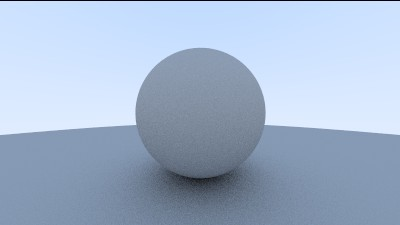
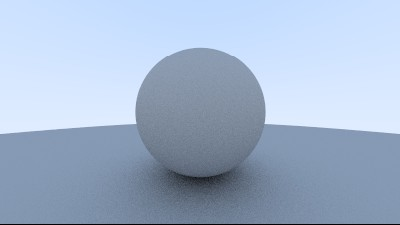
Basic concurrency added, which is slower than single threaded....

diff --git a/cmd/raytracer/main.go b/cmd/raytracer/main.go
@@ -3,7 +3,9 @@ package main
 import (
 	"encoding/json"
 	"image"
+	"image/draw"
 	"image/jpeg"
+	"log"
 	"math"
 	"math/rand"
 	"os"
@@ -12,6 +14,8 @@ import (
 	"raytracer/internal/ray"
 	"raytracer/internal/scene"
 	"raytracer/internal/vector"
+	"runtime/pprof"
+	"sync"
 	"time"
 
 	_ "image/jpeg" // Needed for JPEG decoder
@@ -19,8 +23,16 @@ import (
 
 var loadedScene scene.Scene
 var nPixelSamples = 100
-var maxDepth = 20
+var maxDepth = 50
 var infinity = math.Inf(1)
+
+// Number of threads to split the work up
+const nThreads = 4
+
+type imagePart struct {
+	index, height int
+	image         *image.RGBA
+}
 
 func main() {
 	// Load in a scene file
@@ -54,40 +66,83 @@ func main() {
 	var vertical = vector.Vector{0, viewportHeight, 0}
 	var lowerLeftCorner = origin.Sub(horizontal.Scale(0.5)).Sub(vertical.Scale(0.5)).Sub(vector.Vector{0, 0, focalLength})
 
-	image := image.NewRGBA(image.Rect(0, 0, imageWidth, imageHeight))
+	const rowsPerThread = imageHeight / nThreads
+	const rest = imageHeight - (nThreads * rowsPerThread)
 
-	// Cast rays for each of the image pixels
-	for y := imageHeight - 1; y >= 0; y-- {
-		for x := 0; x < imageWidth; x++ {
-			// Define a new color for this pixel, which we will average later
-			var pixelColor color.RGB = color.New(0, 0, 0)
+	cpuProfile, err := os.Create("profile.pprof")
+	if err != nil {
+		log.Fatal(err)
+	}
+	pprof.StartCPUProfile(cpuProfile)
+	defer pprof.StopCPUProfile()
 
-			// Anti-aliasing
-			for i := 0; i < nPixelSamples; i++ {
-				var u float64 = (float64(x) + rand.Float64()) / (imageWidth + 1)
-				var v float64 = (float64(y) + rand.Float64()) / float64(imageHeight+1)
-				r := ray.New(origin, lowerLeftCorner.Add(horizontal.Scale(u)).Add(vertical.Scale(v)).Sub(origin))
-				pixelColor = pixelColor.Add(colorRay(r, maxDepth))
+	var wg sync.WaitGroup
+	imagePartChan := make(chan imagePart, nThreads)
+	for thread := 0; thread < nThreads; thread++ {
+		// If this is the last thread, it gets the remaining rows from incomplete division
+		startY := thread * rowsPerThread
+		endY := (thread + 1) * rowsPerThread
+		if thread == nThreads-1 {
+			endY += rest
+		}
+
+		// Join waitgroup
+		wg.Add(1)
+
+		go func(thread, startY, endY int, imagePartChan chan imagePart) {
+			defer wg.Done()
+			// Create slice for image part
+			img := image.NewRGBA(image.Rect(0, 0, imageWidth, (endY - startY)))
+
+			// Cast rays for each of the image pixels
+			for y := startY; y <= endY; y++ {
+				for x := 0; x < imageWidth; x++ {
+					// Define a new color for this pixel, which we will average later
+					var pixelColor color.RGB = color.New(0, 0, 0)
+
+					// Anti-aliasing
+					for i := 0; i < nPixelSamples; i++ {
+						var u float64 = (float64(x) + rand.Float64()) / (imageWidth + 1)
+						var v float64 = (float64(y) + rand.Float64()) / float64(imageHeight+1)
+						r := ray.New(origin, lowerLeftCorner.Add(horizontal.Scale(u)).Add(vertical.Scale(v)).Sub(origin))
+						pixelColor = pixelColor.Add(colorRay(r, maxDepth))
+					}
+
+					// Set pixel in slice
+					img.Set(x, endY-y, pixelColor.Average(nPixelSamples).RGBA())
+				}
 			}
 
-			// Set pixel in the image
-			image.Set(x, imageHeight-y, pixelColor.Average(nPixelSamples).RGBA()) // Flipping y coordinates
-		}
+			// Thread is done
+			imagePartChan <- imagePart{index: nThreads - thread - 1, height: endY - startY, image: img}
+
+		}(thread, startY, endY, imagePartChan)
+	}
+
+	// Wait for all threads to finish
+	wg.Wait()
+	close(imagePartChan)
+
+	// Stitch all image parts together
+	fullImage := image.NewRGBA(image.Rect(0, 0, imageWidth, imageHeight))
+	for part := range imagePartChan {
+		r := image.Rect(0, part.index*rowsPerThread, imageWidth, part.index*rowsPerThread+part.height)
+		draw.Draw(fullImage, r, part.image, image.ZP, draw.Src)
 	}
 
 	// Save image
-	f, err = os.Create("outimage.jpg")
+	output, err := os.Create("outimage.jpg")
 	if err != nil {
 		// Handle error
 	}
-	defer f.Close()
+	defer output.Close()
 
 	// Specify the quality, between 0-100
 	// Higher is better
 	opt := jpeg.Options{
 		Quality: 90,
 	}
-	err = jpeg.Encode(f, image, &opt)
+	err = jpeg.Encode(output, fullImage, &opt)
 	if err != nil {
 		// Handle error
 	}
